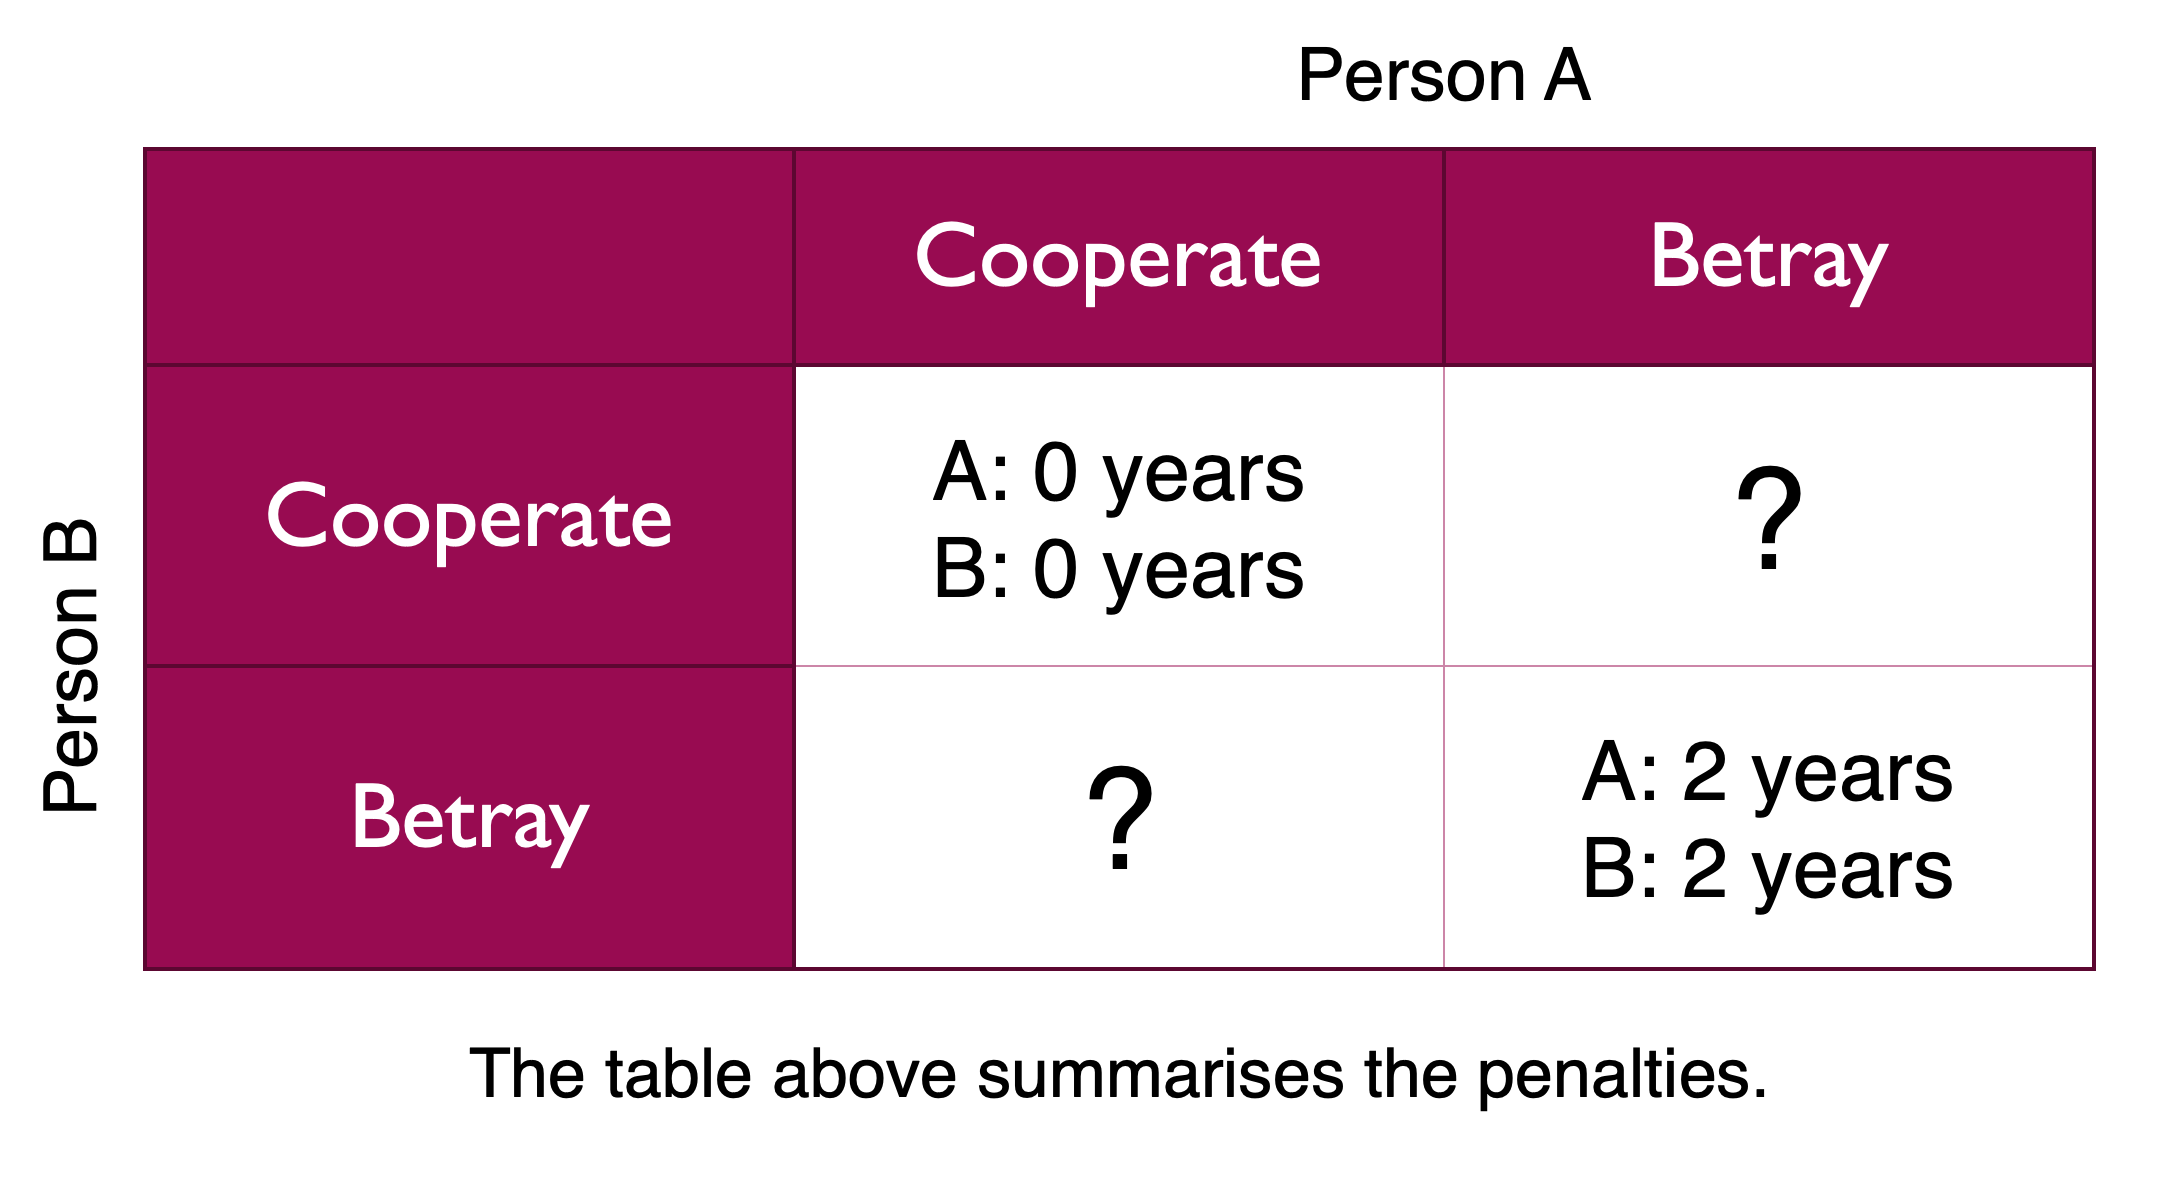
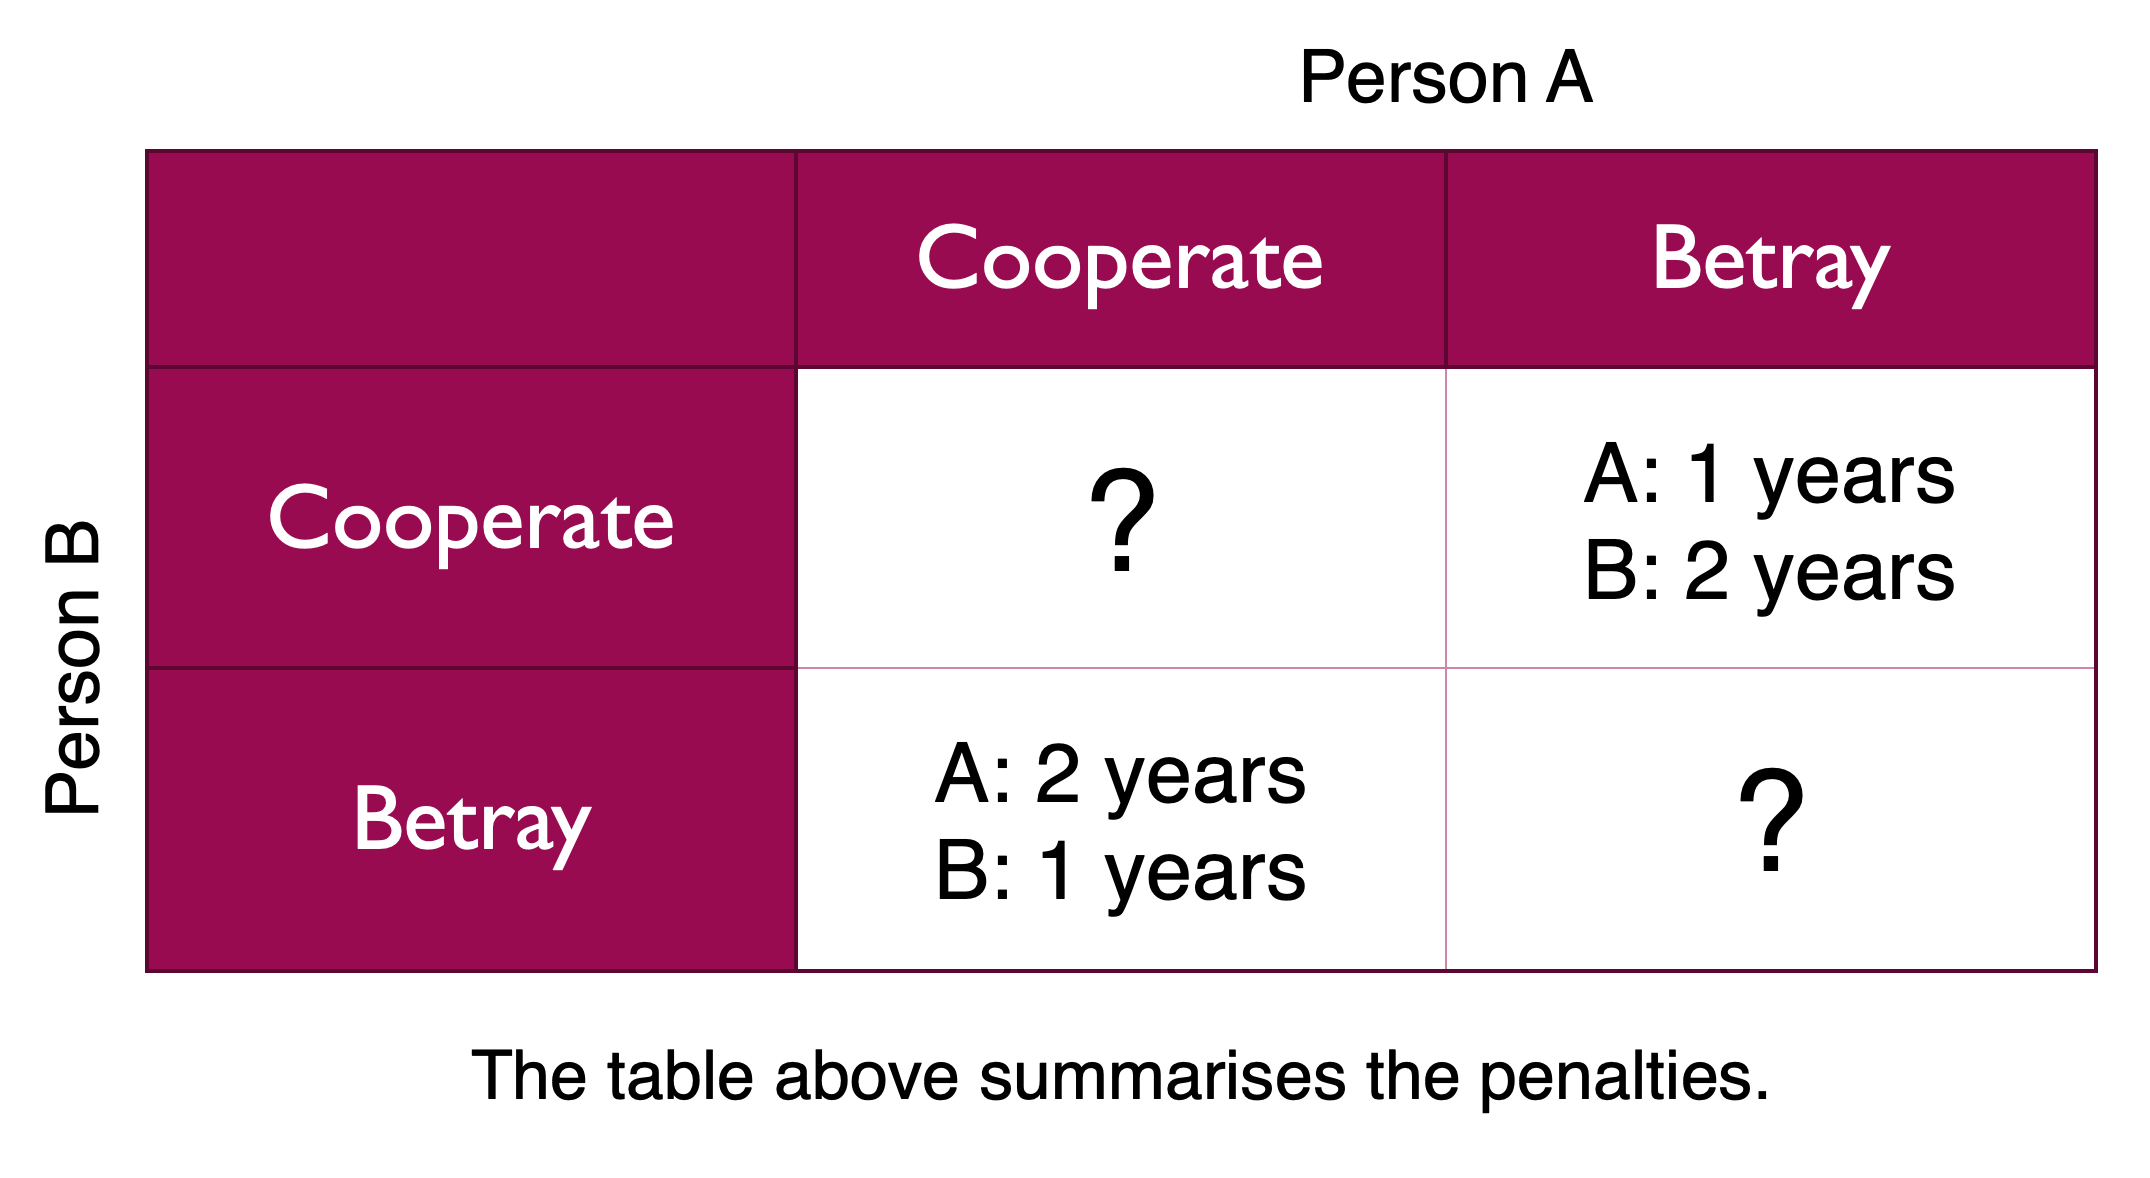
updated question-4

diff --git a/public/survey/page1.html b/public/survey/page1.html
@@ -26,6 +26,7 @@
                 Simple, right?</h3>
             <br />
             <h1 class="question display-5">So let's get started!</h1>
+            <p>(You need to scroll down for the next prompts)</p>
         </div>
 
         <div id="prompt2" class="section mx-auto">
@@ -256,12 +257,13 @@
                 <div class="row align-items-center">
                     <div class="col-lg-7">
                         <p>You are given the following offer:</p>
-                        <p>If you both cooperate, you both would be <span style="color:#f8b467">set
-                                free</span>.</p>
-                        <p>If one of you betrays and the other cooperates, <span style="color:#f8b467">the police
+                        <p>If both of you betray or both of you cooperate, <span style="color:#f8b467">the police
                                 decides on what to do</span>.</p>
-                        <p>If you both betray each other, you both go to
-                            prison for <span style="color:#f8b467">2 years</span>.</p>
+                        <p>If you betray and the other cooperates, the
+                            other
+                            person will be going to prison for <span style="color:#f8b467">2 years</span>, and you will
+                            be going to prison for <span style="color:#f8b467">1 year</span> (and
+                            vice-versa).</p>
                     </div>
                     <div class="col-lg-5 pl-3">
                         <img width="100%" class="mx-auto my-auto" src="/images/case4.png">
@@ -318,7 +320,8 @@
                 <div class="row align-items-center">
                     <div class="col-lg-12" style="text-align: center">
                         <p>You've still got a chance to scroll back and change your answers if you wish.</p>
-                        <p><button id="submit" class="btn btn-success mx-auto" onclick="saveResponse()">Save Responses</button></p>
+                        <p><button id="submit" class="btn btn-success mx-auto" onclick="saveResponse()">Save
+                                Responses</button></p>
                     </div>
                 </div>
                 <br />
